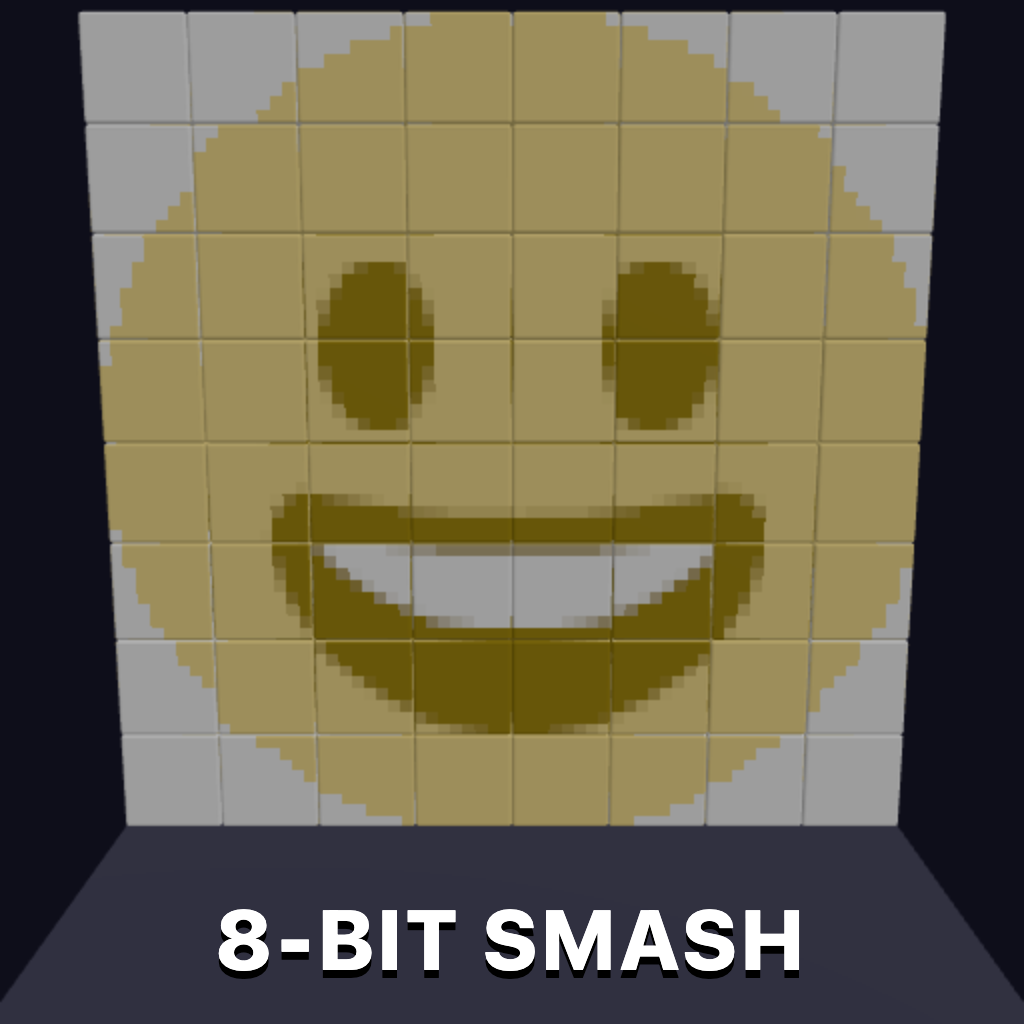
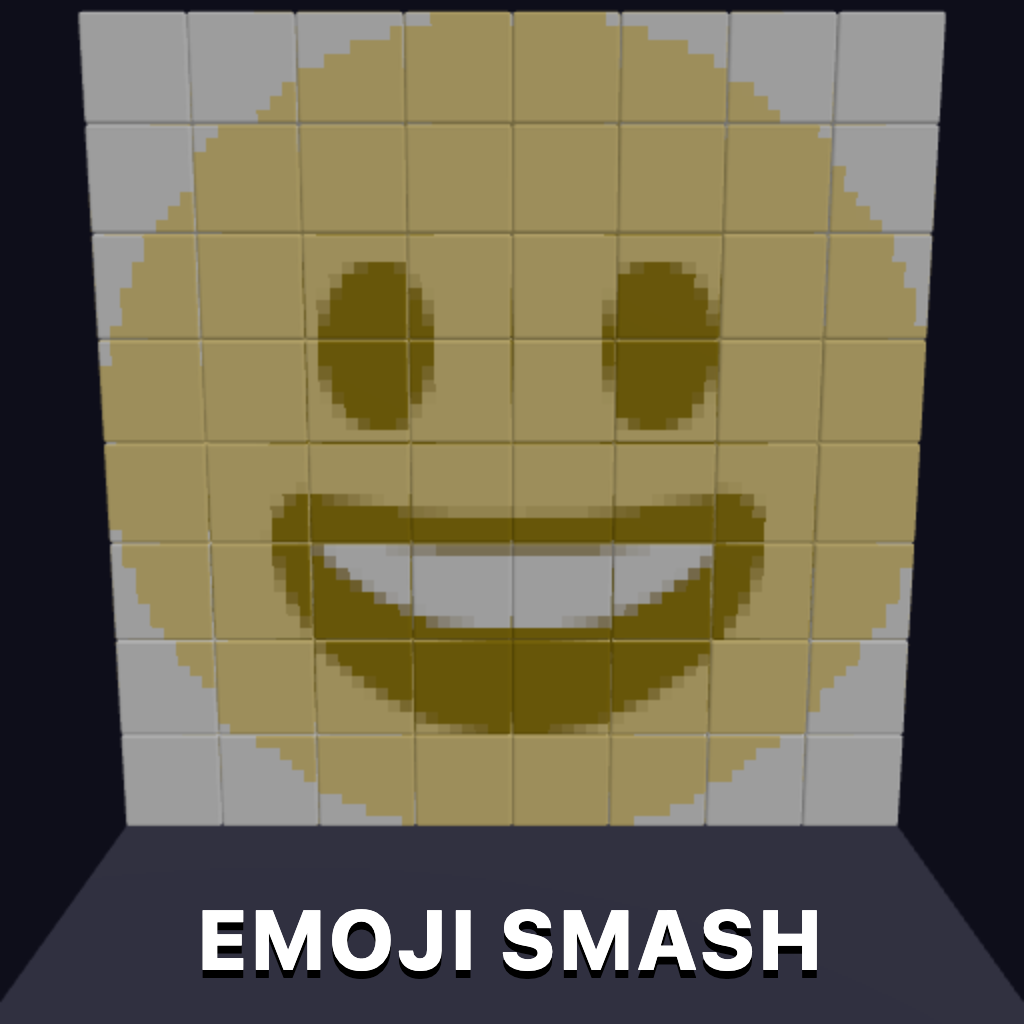
chore: rename game to Emoji Smash; switch dev port to 8083
- meta.json slug + title, package.json name, src/save.js storage key,
  index.html <title>, src/menu.js main-menu heading, thumbnail.html
  title overlay, README heading
- dev-server.sh port 8080 → 8083 (8080 conflicts with other JSGames)
- thumbnail.png re-rendered with EMOJI SMASH title

Changed region(s): [[0.1875, 0.875, 0.8125, 0.9688]]

diff --git a/thumbnail.html b/thumbnail.html
@@ -3,7 +3,7 @@
 <style>html,body{margin:0;background:#0e0e1a;width:512px;height:512px;overflow:hidden}canvas{display:block}#title{position:absolute;left:0;right:0;bottom:18px;text-align:center;font-family:system-ui,sans-serif;color:#fff;font-weight:800;font-size:42px;letter-spacing:2px;text-shadow:0 4px 0 #000}</style>
 </head><body>
 <canvas id="game" width="512" height="512"></canvas>
-<div id="title">8-BIT SMASH</div>
+<div id="title">EMOJI SMASH</div>
 <script type="importmap">
 { "imports": {
   "three": "./vendor/three.module.js",

diff --git a/src/menu.js b/src/menu.js
@@ -6,7 +6,7 @@ const ORDERED = LEVELS.map(l => l.id);
 export function showMainMenu(root, save, { onPuzzle, onZen, onEndless }) {
   root.innerHTML = `
     <div class="screen">
-      <h1>8-Bit Smash</h1>
+      <h1>Emoji Smash</h1>
       <div class="sub">Knock 'em all off.</div>
       <button class="menu-btn" id="puzzle">Play Puzzle</button>
       <button class="menu-btn" id="zen">Play Zen</button>

diff --git a/index.html b/index.html
@@ -3,7 +3,7 @@
 <head>
   <meta charset="utf-8">
   <meta name="viewport" content="width=device-width, initial-scale=1, user-scalable=no, viewport-fit=cover">
-  <title>8-Bit Smash</title>
+  <title>Emoji Smash</title>
   <style>
     html, body { margin:0; padding:0; background:#0e0e1a; color:#fff;
       width:100vw; height:100vh; overflow:hidden;

diff --git a/src/save.js b/src/save.js
@@ -1,5 +1,5 @@
 export const SAVE_VERSION = 1;
-const KEY = '8bit-smash-3d:save:v1';
+const KEY = 'emoji-smash-3d:save:v1';
 
 export function defaultSave() {
   return {

diff --git a/README.md b/README.md
@@ -1,4 +1,4 @@
-# 8-Bit Smash 3D
+# Emoji Smash 3D
 
 Fire balls at an 8×8 wall of pixel-art emoji blocks; knock them all off the platform. Built on Physics3D + three.js for play.nitzan.games.
 
@@ -8,7 +8,7 @@ Fire balls at an 8×8 wall of pixel-art emoji blocks; knock them all off the pla
 ./dev-server.sh
 ```
 
-Open http://localhost:8080.
+Open http://localhost:8083.
 
 ## Test
 
